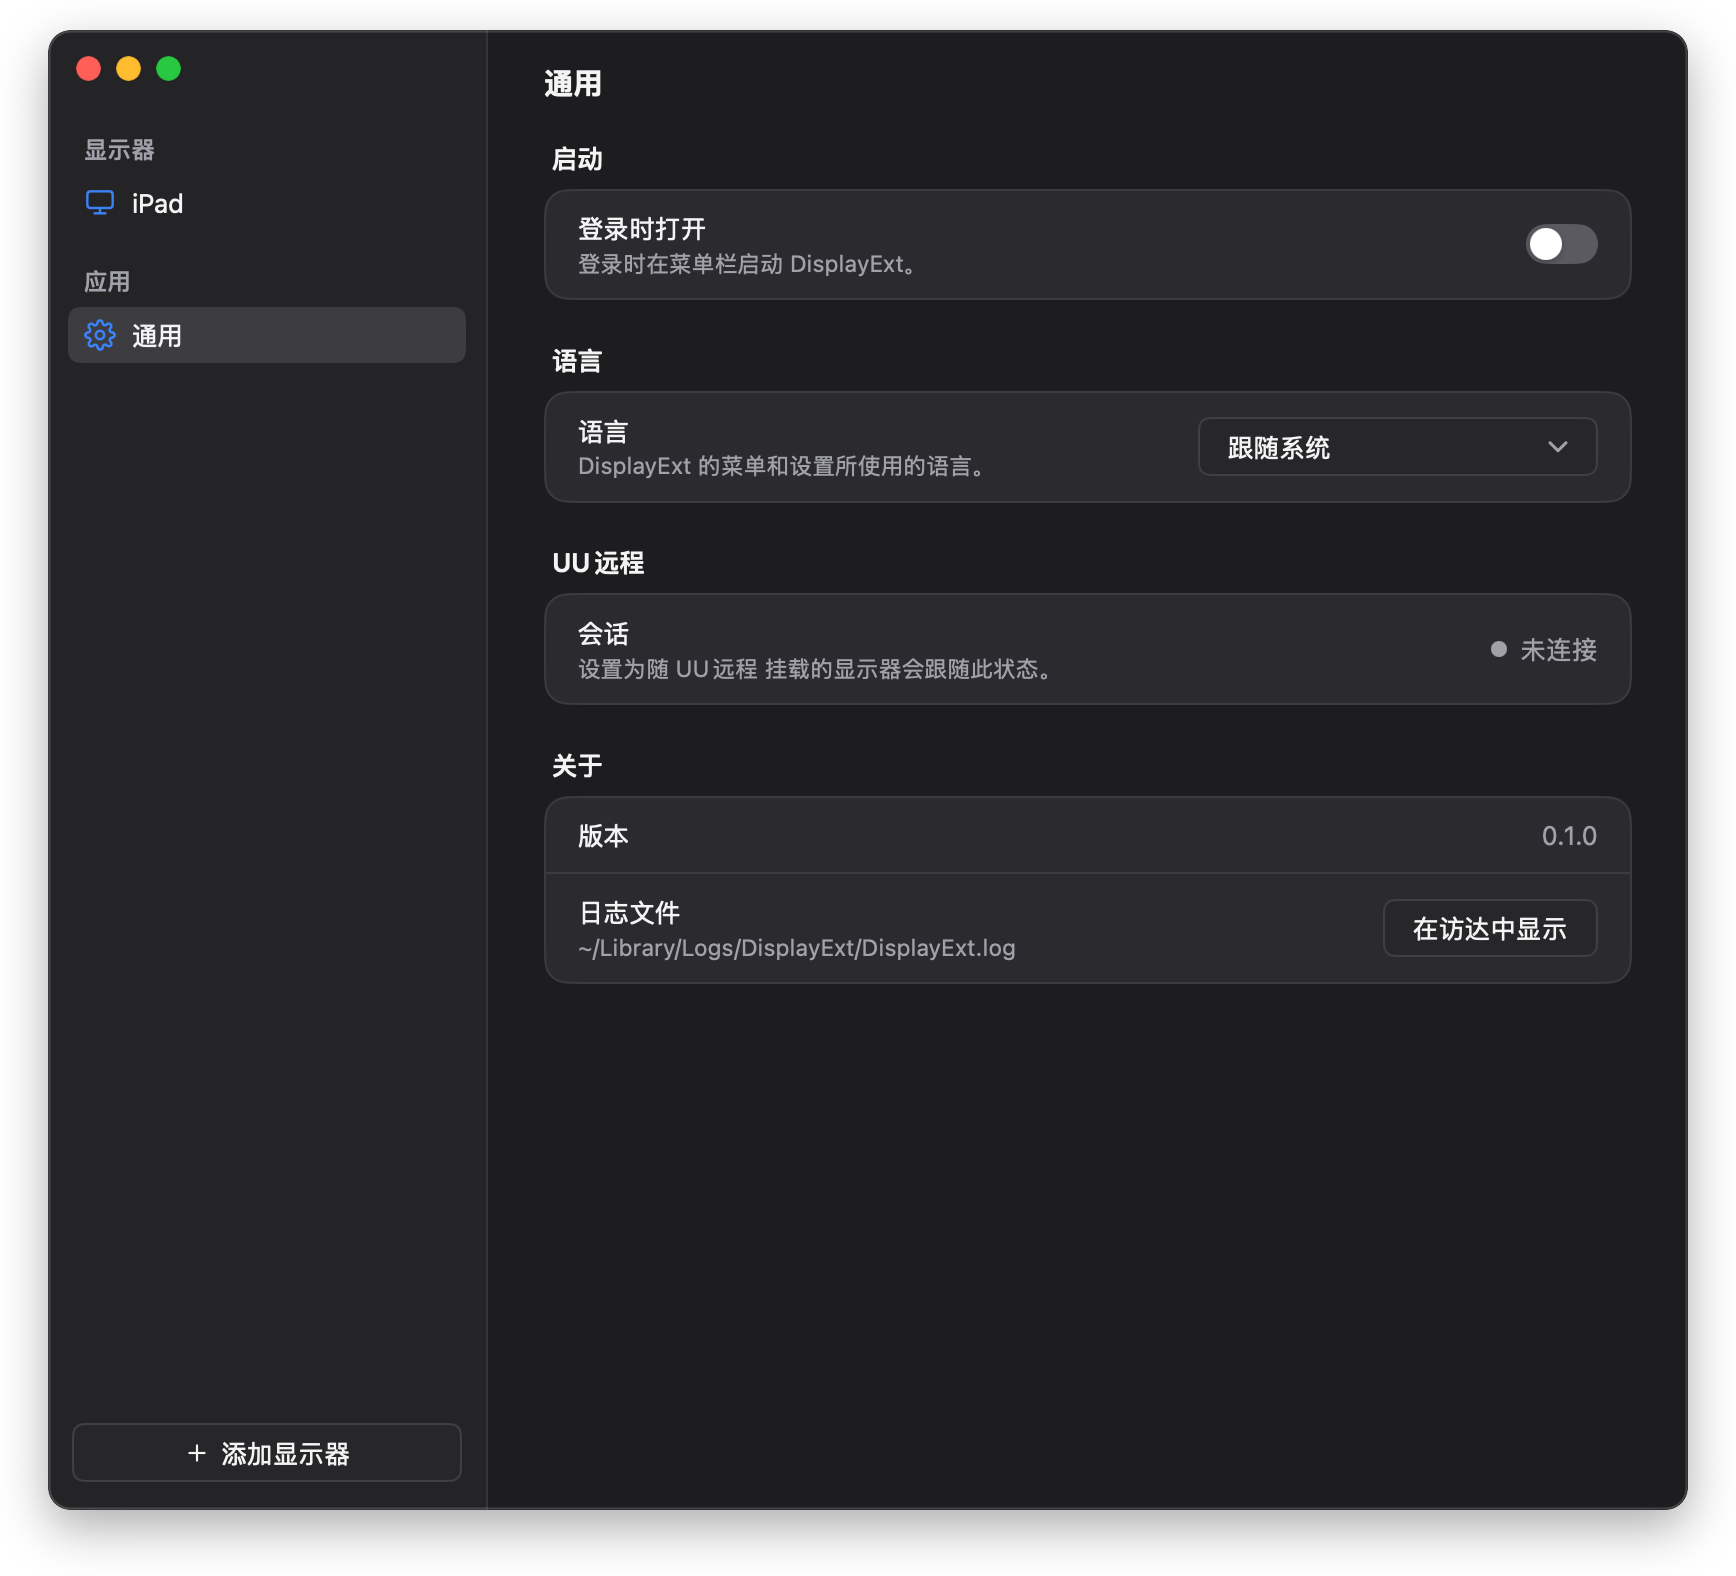
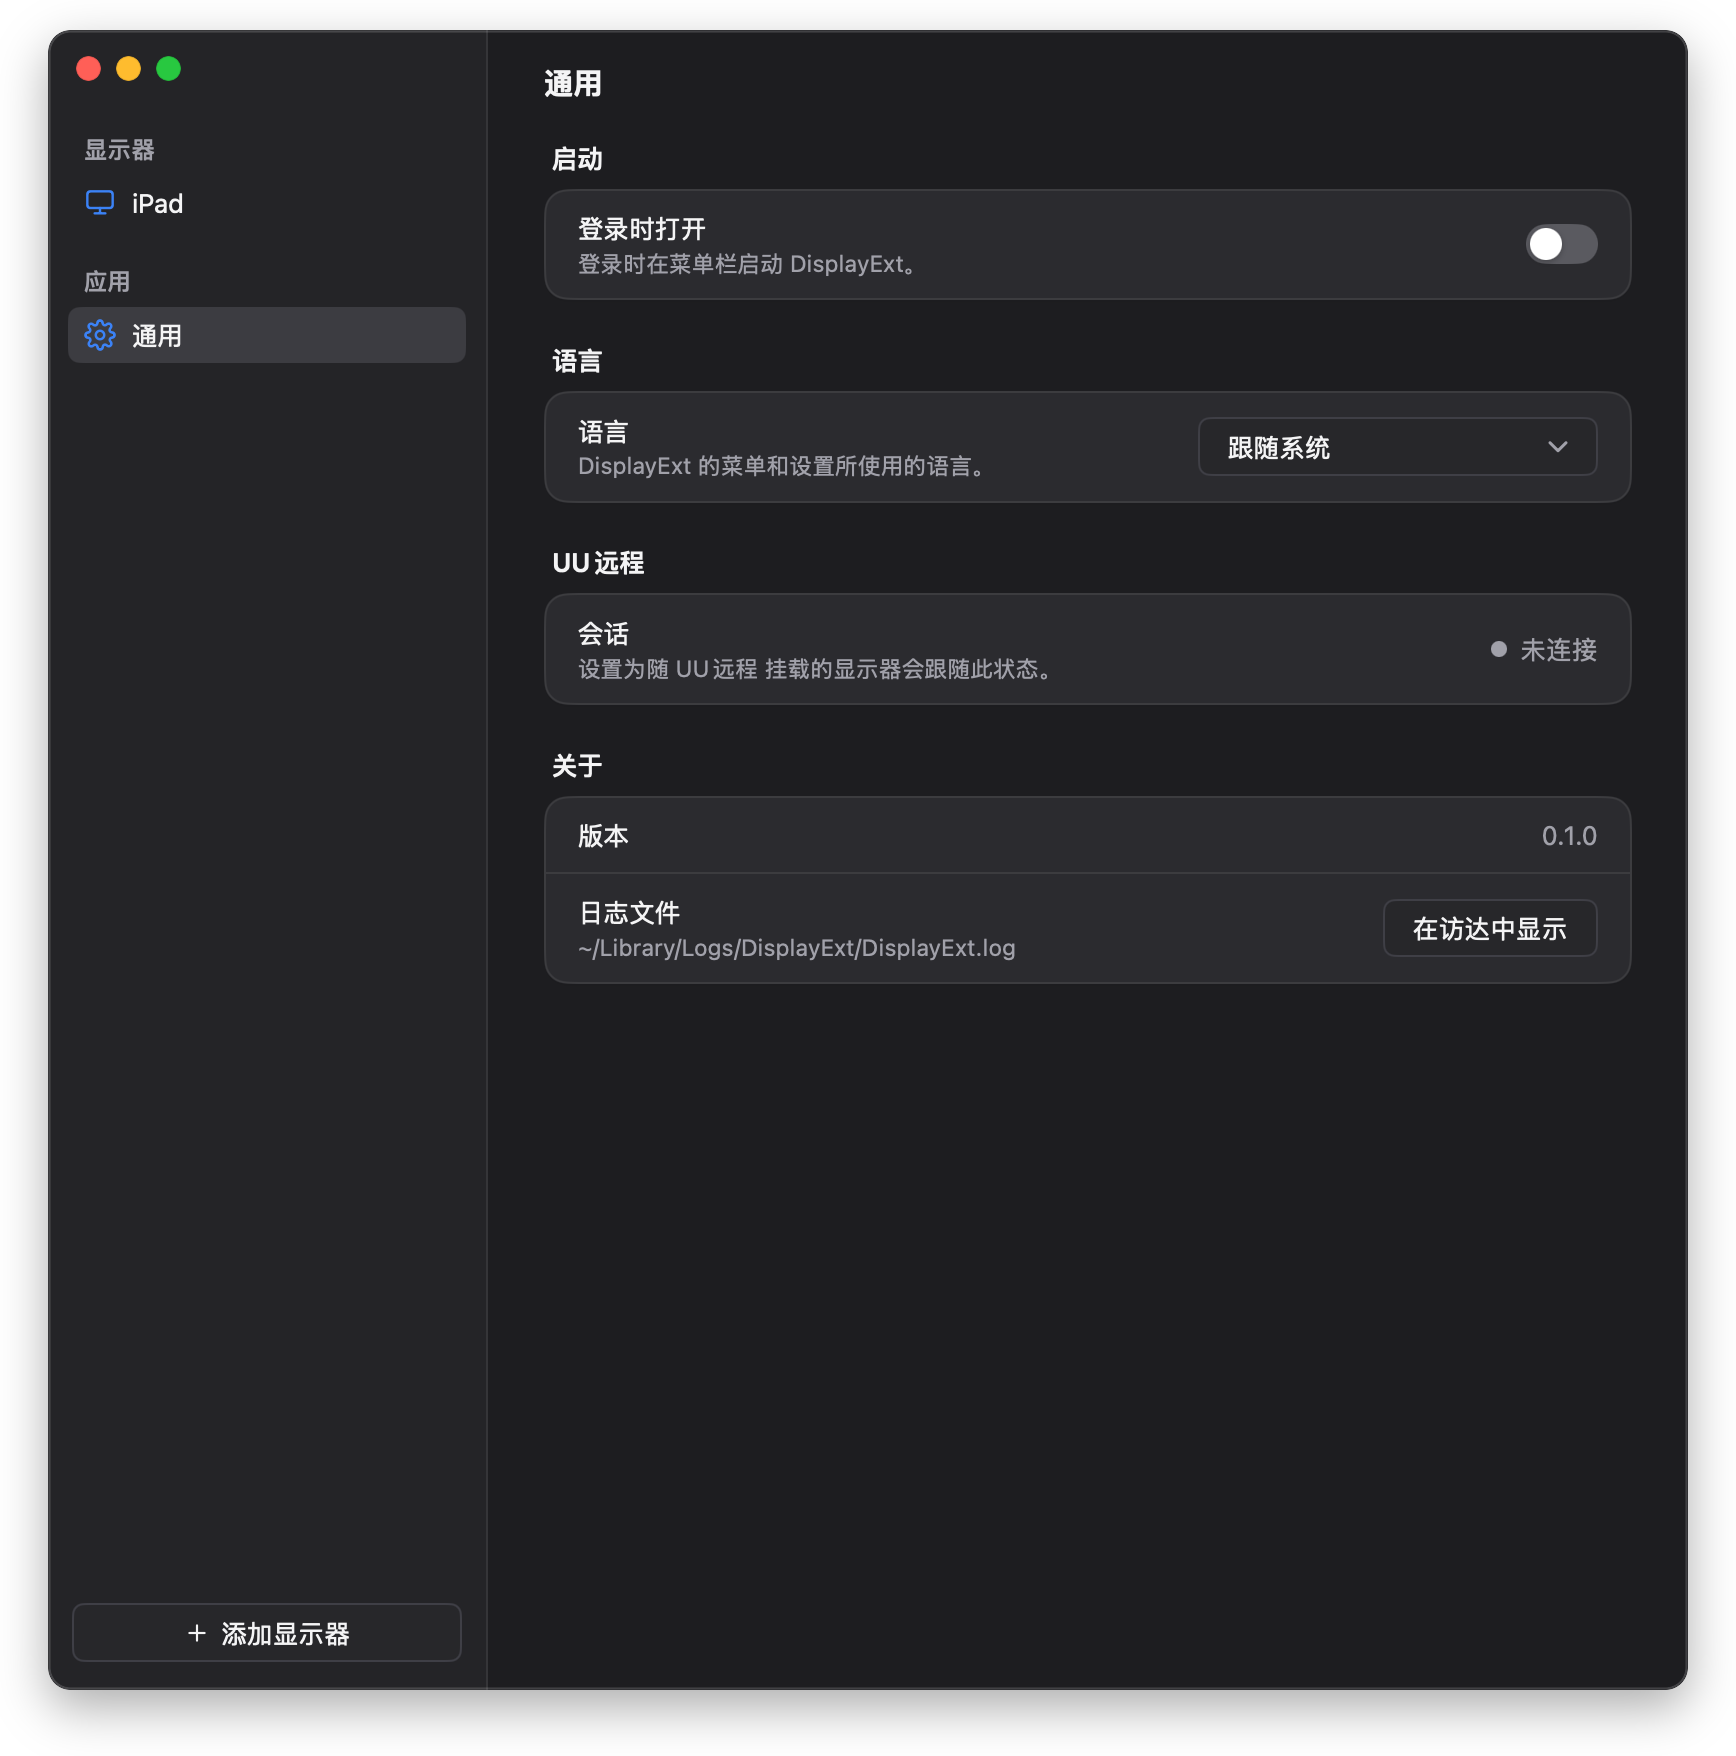
Show the screens-off switch in the README screenshots
The screenshots predate the "Turn off other screens" switch. Render them
again, in both languages and themes. The new row pushed the Delete, Revert
and Save buttons out of the 740-point window, so the snapshot window is
now 830 points tall.

diff --git a/internal/app/snapshot_test.go b/internal/app/snapshot_test.go
@@ -37,7 +37,7 @@ func TestSnapshot(t *testing.T) {
 			if shot.general {
 				s.showGeneral()
 			}
-			tt := ui.NewTesterWith(s.View, 820, 740, ui.TesterOptions{Dark: shot.dark})
+			tt := ui.NewTesterWith(s.View, 820, 830, ui.TesterOptions{Dark: shot.dark})
 			tt.SetLocale(lang)
 			tt.SetScale(2)
 			tt.SetTitleBar(ui.TitleBar{Height: 52, Left: 78, Bottom: 28})
